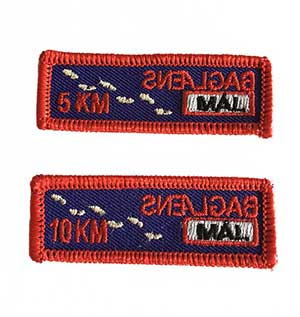
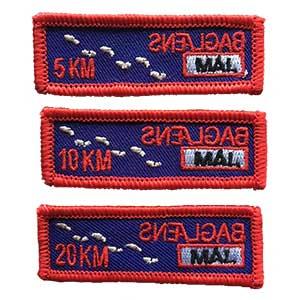
updated baglæns badge

diff --git a/_m/baglaens.html b/_m/baglaens.html
@@ -1,8 +1,7 @@
 ---
 name: Baglæns
 description: >
-  <p>Da der er mange som går 5 eller 10 km baglæns enten til den årlige vandreweekend i Ølgod eller hjemme i grupperne, har vi nu lavet et baglænsmærke.</p>
-  <p>De kan købes for 20,- pr. stk. + forsendelse.</p>
+  <p>Et uofficielt kilometermærke for at gå 5, 10 eller 20 km baglæns.</p>
 tags:
 - uofficielt
 - duelighed
@@ -10,5 +9,5 @@ tags:
 age: 8+
 coverimage: cover-hike.jpg
 image: baglaens.jpg
-buylink: https://www.facebook.com/groups/spejdermaerker/permalink/1794499177448790/
+buylink: https://www.facebook.com/groups/spejdermaerker/permalink/1906294549602585/
 ---
